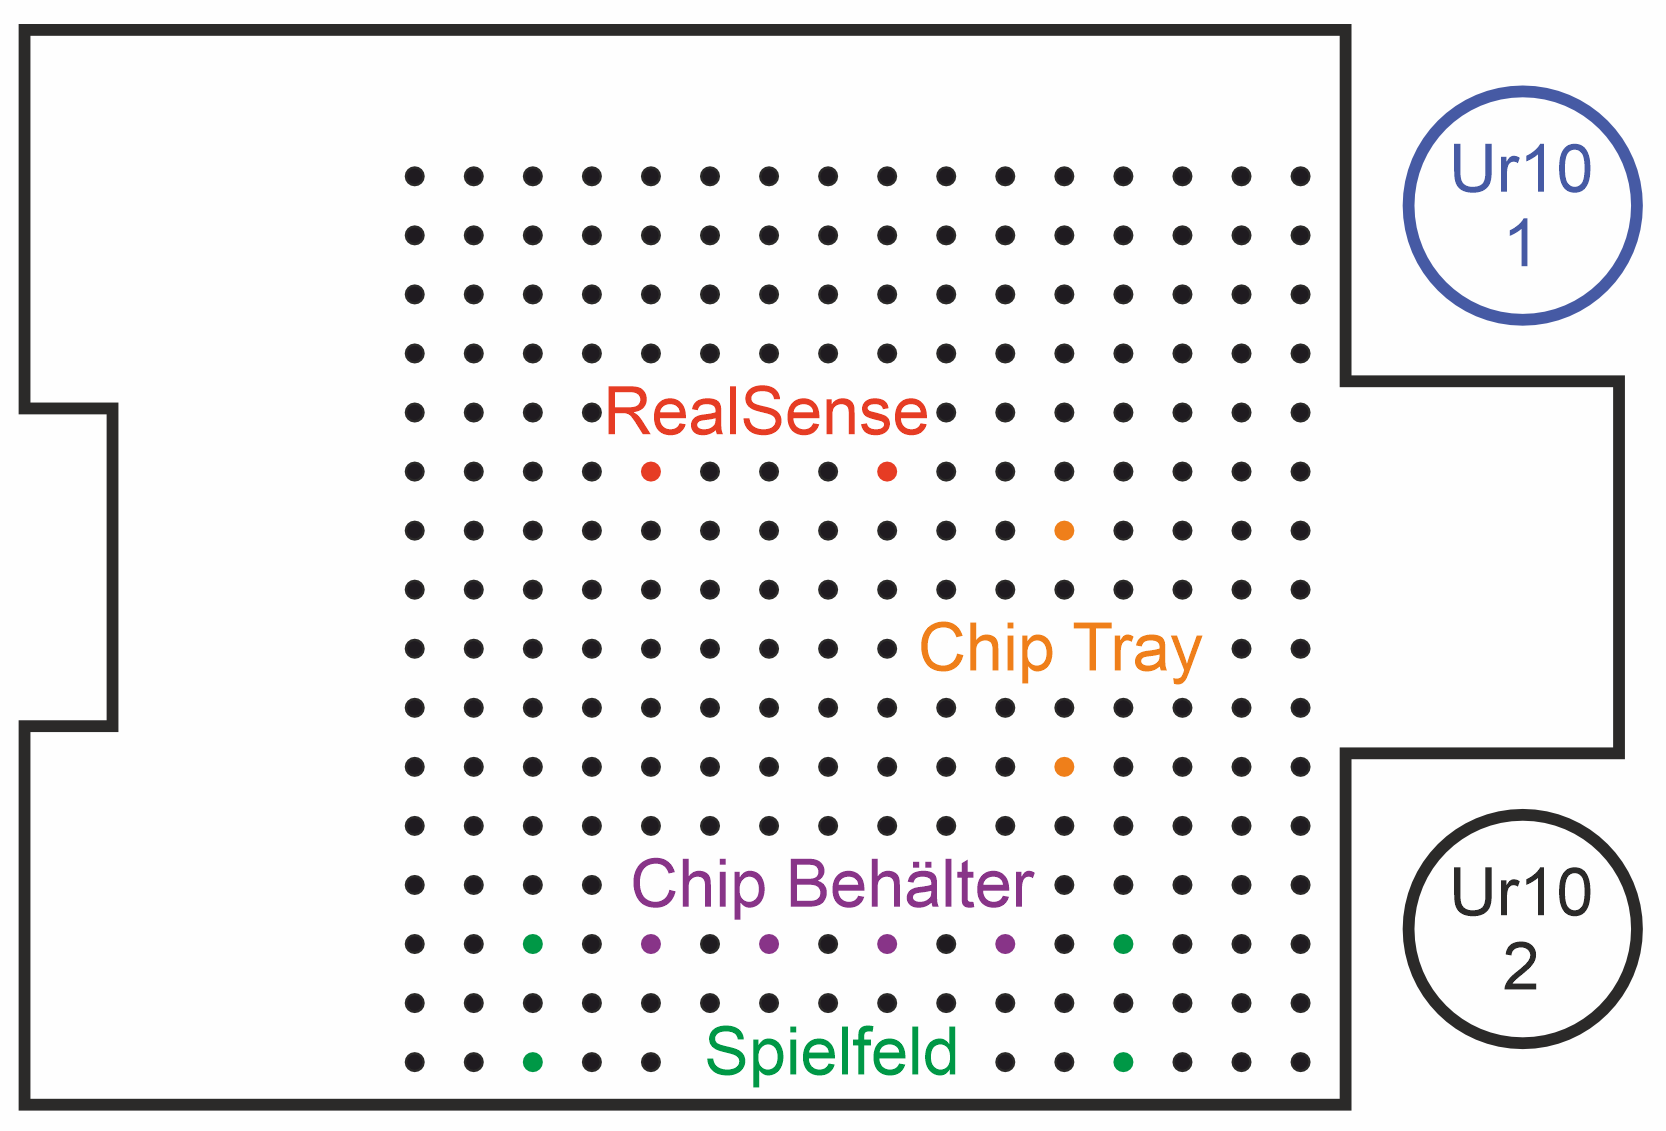
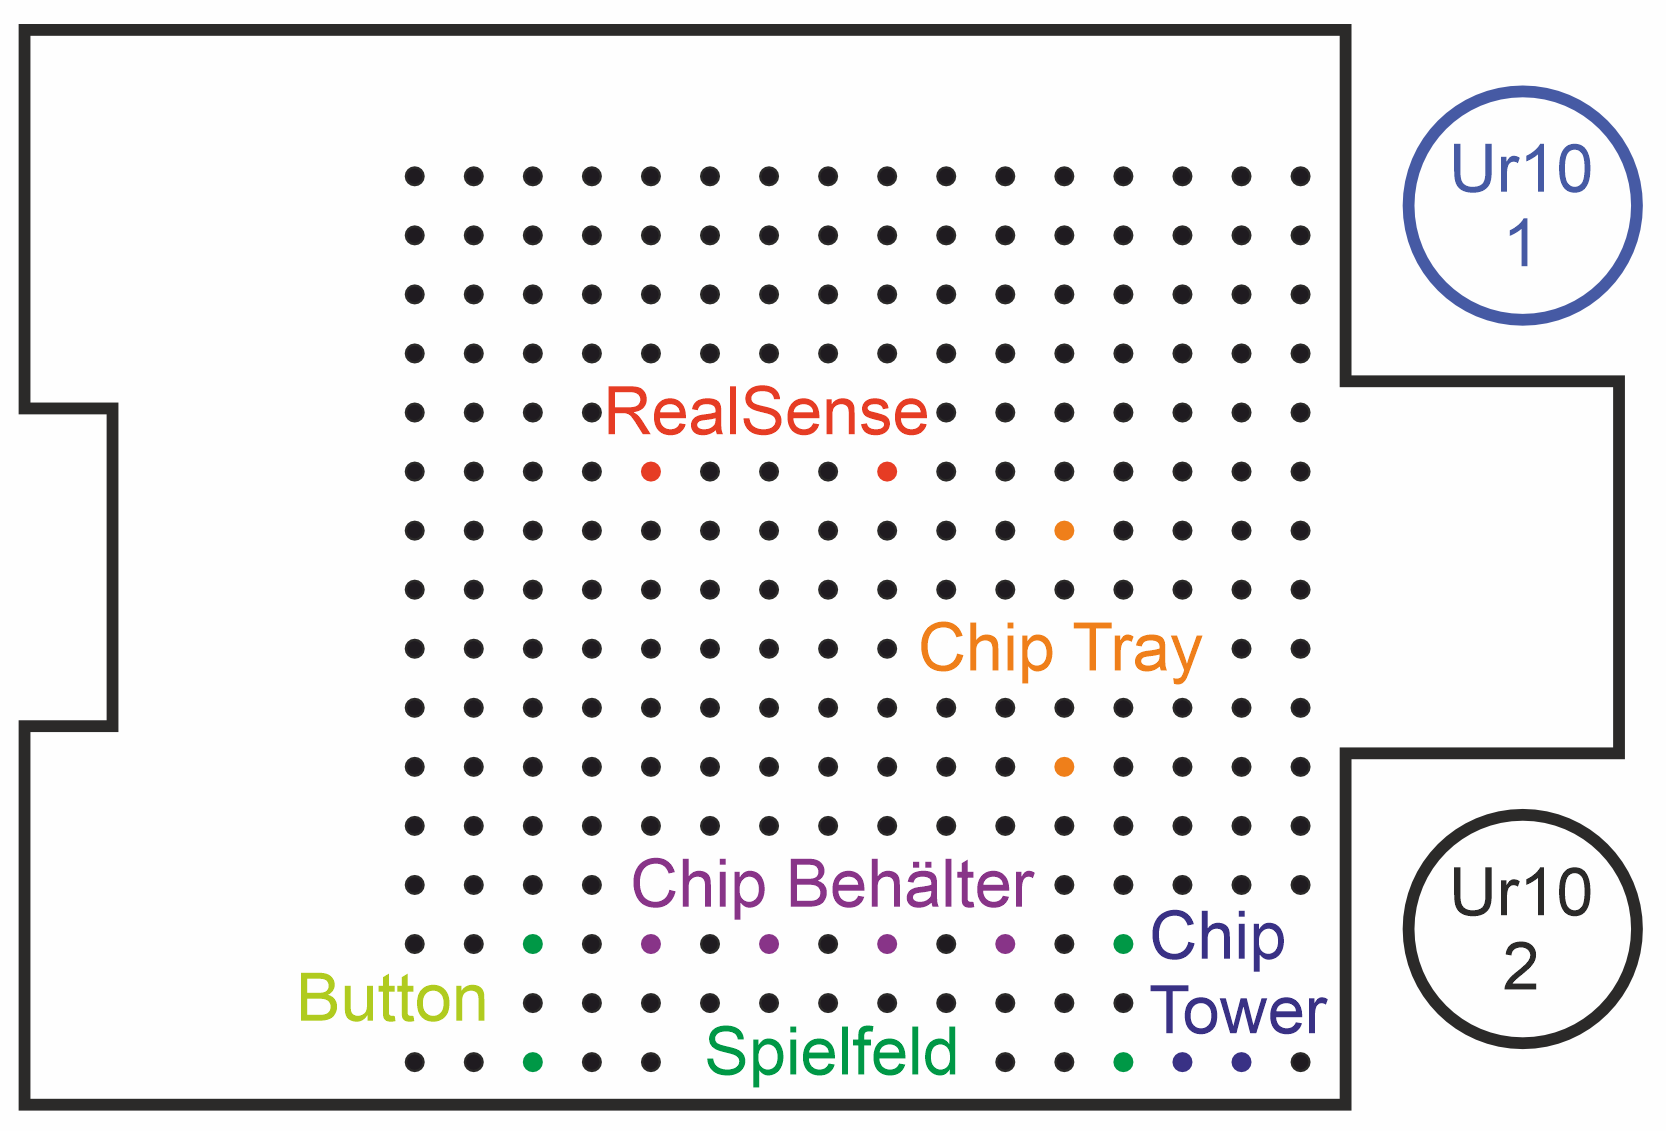
Updated image for mounting. Added image for network connection

Changed region(s): [[0.6867, 0.8046, 0.8115, 0.9593], [0.1561, 0.8665, 0.3121, 0.9284]]

diff --git a/docs/hardware-setup.md b/docs/hardware-setup.md
@@ -22,6 +22,8 @@ The components to be mounted on the plate are color-coded as follows:
 - 🟠 **Orange (Black Chip Holder)**: The black chips are placed here in an orderly fashion so the robot can pick them up.
 - 🔴 **Red (RealSense Camera Mount)**: The slanted sides must face away from the game board.
 - 🔵 **Blue (UR Robot Arm)**: The Universal Robot (UR) arm that is used to play the game.
+- 🟩 **Light Green (Difficulty Button)**: Used to set the difficulty. Note: Currently, there is no way to screw this down.
+- 🟦 **Dark Blue (Chip Tower)**: Where the green chips for the player are inserted.
 
 <img src="./images/game-overview-nobackground.png" alt="Overview of the game setup on MuR620d" width="400" />
 
@@ -35,6 +37,9 @@ To ensure all hardware components are properly powered and connected, follow the
 2. **Connect Power Cables:** Retrieve the appropriate power cables from the grey equipment box and plug the MuR620, NUC, and monitor into the extension cord.
 3. **Connect Peripherals:** Plug the keyboard and mouse into the USB ports on the NUC.
 4. **Connect the Monitor:** Use the provided display cable from the grey equipment box to connect the monitor to the NUC.
+5. **Connect to LAN:** Connect the NUC to the LAN of the MuR620. The cable needs to be routed through the back left door of the MiR. Looking in there, you can see the switch which is displayed on the image below.
+   
+   <img src="./images/network-switch-connection.jpg" alt="Switch inside the back left door of the MiR" width="300" />
 
 [⬆ Back to Step-by-Step Guide](../README.md#step-by-step-setup-guide) | [➡ Next Step: Getting the NUC ready](#getting-the-nuc-ready)
 
@@ -141,7 +146,8 @@ INSERT IMAGE HERE LATER
 <img src="./images/schunk-gripper-mointingholes.jpg" alt="Schunk Gripper Mounting Holes" width="400" />
 
 4. Mount the aluminium plate directly to the UR10 1 (see the image below).
-5. Mount the Schunk gripper to the aluminium plate. Using the diagonal holes going through the Schunk gripper 
+5. Mount the Schunk gripper to the aluminium plate. Using the diagonal holes going through the Schunk gripper.
+   > **Important:** You MUST ensure the gripper is mounted in the correct orientation! Look carefully at the image to match it exactly.
 
 [⬆ Back to Step-by-Step Guide](../README.md#step-by-step-setup-guide) | [➡ Next Step: Start the Game](#start-the-game)
 
